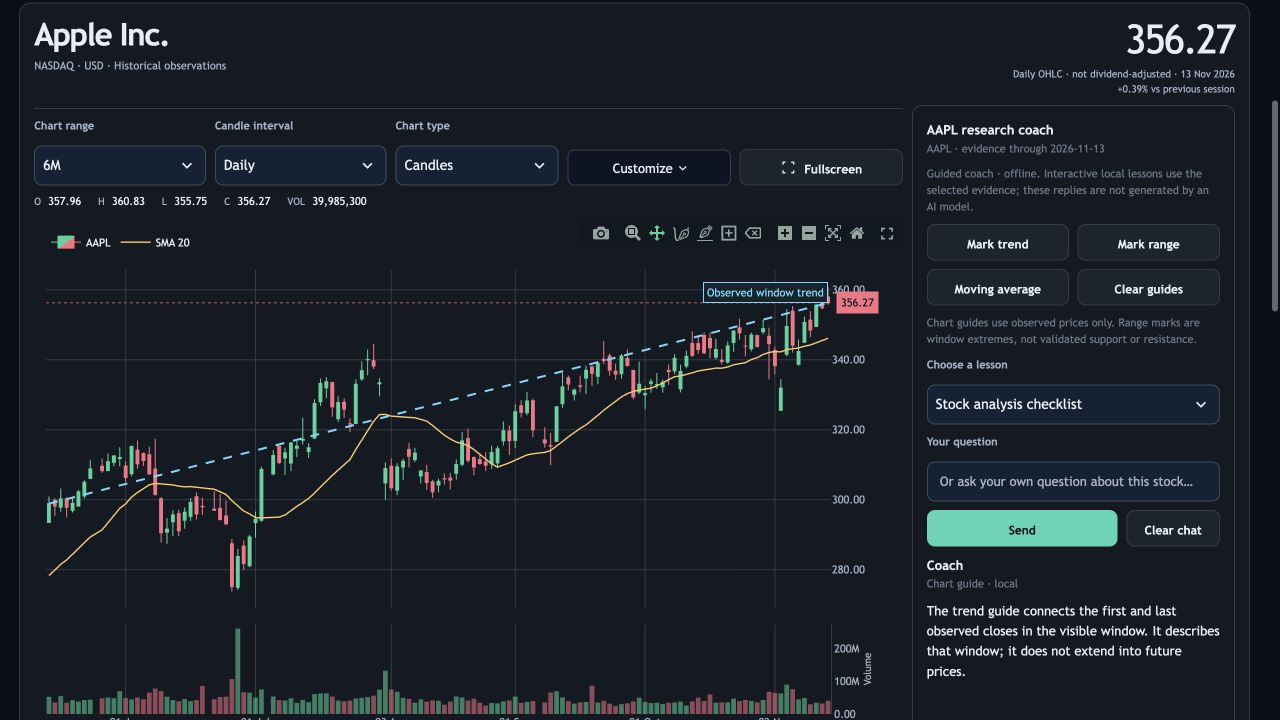
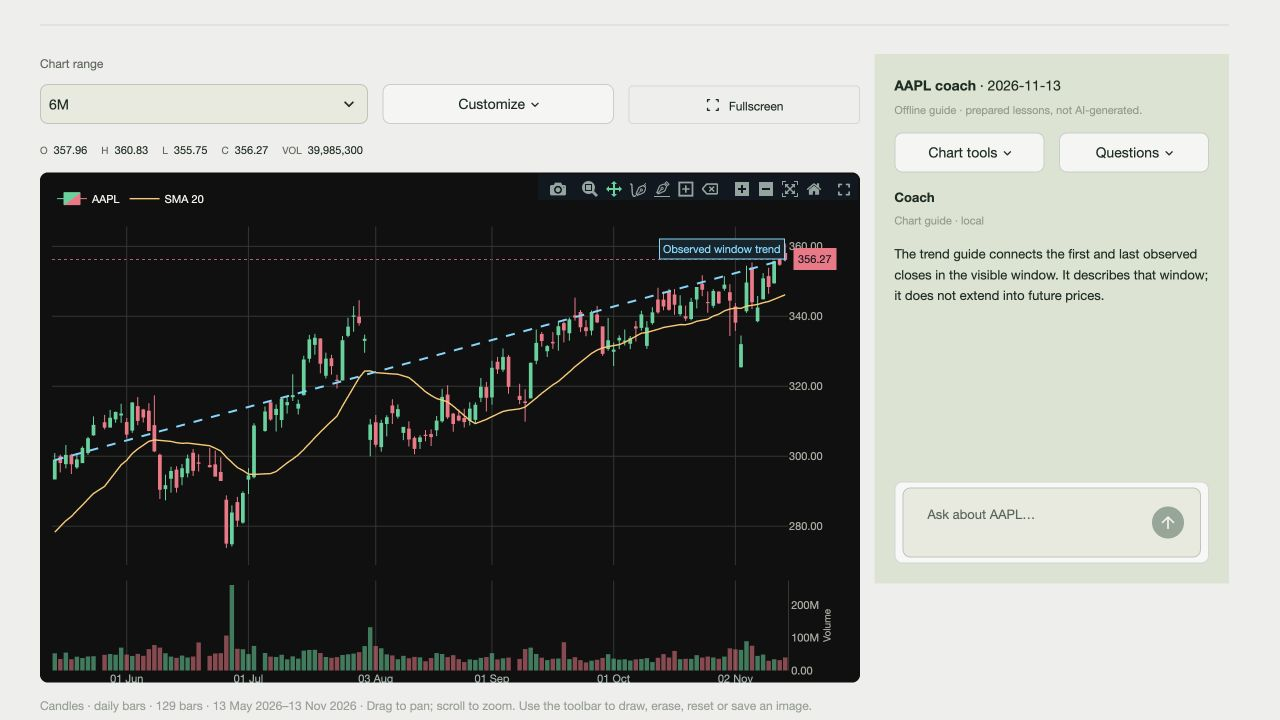
Polish README for the hackathon presentation
Lead with a clear project summary, current Research and paired builder screenshots, a workspace overview, quick start and a two-minute tour. Replace repeated feature history with concise explanations and links to detailed methods, results, data and hosting documentation.

Correct current tab names, active versus preset multipliers, offline versus optional AI coaching, score versus return graphs, seven-day news coverage and scenario assumptions. Retain verified dataset counts and research limitations.

Validation: relative links and image assets resolve, JPEG integrity checked, code/math fences balanced, and git diff --check passed. Application code unchanged.

diff --git a/README.md b/README.md
@@ -1,188 +1,137 @@
 # DerivPort
 
-![Candlestick workspace with integrated research coach](docs/screenshots/research-workspace.jpg)
+**Interactive equity research, algorithm building, and calculus sensitivity analysis.**
 
-![Calculus Lab: score sensitivity and accumulated change](docs/screenshots/calculus-lab.jpg)
+DerivPort is an educational finance project for the Veritas AI Hackathon. Explore a stock, turn an idea into a transparent ranking rule, and test it against historical evidence—all in one workspace.
 
-An educational stock-research and algorithm lab for the Veritas AI finance challenge. Compare dated company evidence with a **quant analyst — model and ranking**, edit a mathematical rule, and reveal what happened next. **Research**, **Algorithm builder**, **Future scenarios**, and **Research & Benchmarking** provide historical evidence, rule experiments, hypothetical projections, and reproducible model/portfolio comparisons. No brokerage connections, account balances, live orders, or buy/sell recommendations; portfolio holdings are hypothetical research allocations.
+[Quick start](#quick-start) · [Two-minute tour](#two-minute-tour) · [How it works](#how-it-works) · [Documentation](#documentation)
 
-[Figma design](https://www.figma.com/design/ZxLybASxv0lxyUkdnQ33A2/Hackathon-DerivPort?node-id=1-7) · [Interface direction](docs/DESIGN.md)
+![Research workspace: real candlesticks and an integrated stock coach](docs/screenshots/research-workspace.jpg)
 
-The [DerivPort logo component](https://www.figma.com/design/ZxLybASxv0lxyUkdnQ33A2/Hackathon-DerivPort?node-id=8-8) was created and exported in Figma. Its editable source and exact SVG provenance are documented in [Brand](docs/BRAND.md).
+*Research: observed prices, customizable charts, and a coach grounded in the selected historical view.*
 
-## Run locally
+![Algorithm builder: the selected stock chart beside its draft algorithm-score graph](docs/screenshots/algorithm-builder.jpg)
 
-Tested with Python **3.13**:
+*Algorithm builder: compare the stock chart with your recipe’s score curve. A ranking score is different from an investment return.*
+
+## What you can explore
+
+| Workspace | What it does |
+| --- | --- |
+| **Research** | Browse US-listed equities, inspect candlesticks, read dated company evidence, and compare model and algorithm rankings. |
+| **Algorithm builder** | Start with a guided recipe or arrange factor blocks. Preview score contributions, explore calculus, and run a historical backtest. |
+| **Future scenarios** | Explore assumption-driven paths through 2037, with adjustable growth, volatility, and correlation. |
+| **Benchmarks** | Compare six forecasting methods, alternative ranking rules, and hypothetical portfolios using chronological evaluation. |
+
+The interface uses a light pastel-gray layout with a dark stock-chart canvas. Settings and deeper research tools stay collapsed until needed.
+
+## Quick start
+
+Tested with **Python 3.13**. On macOS or Linux:
 
 ```sh
+git clone https://github.com/bvnnydevv/DerivPort.git
+cd DerivPort
 python3 -m venv .venv
 .venv/bin/python -m pip install -r requirements.txt
-.venv/bin/streamlit run app.py --server.address 127.0.0.1
+.venv/bin/streamlit run app.py
 ```
 
-Open **http://127.0.0.1:8501**. Installation requires internet. Once installed, all bundled and previously downloaded stock histories work offline. Explicit provider search, adding an uncached stock, refreshing history, and opening external source links require internet. No API key is required. Dependencies include Streamlit, pandas, NumPy, scikit-learn, Plotly, and `yfinance==1.8.0`.
+Open [localhost:8501](http://localhost:8501). On Windows, use the executables in `.venv\Scripts` instead of `.venv/bin`.
 
-## Host a demo
+**No API key is needed for the bundled demo.** After installation, bundled price history, charting, guided lessons, algorithm experiments, and simulations work offline. News, provider searches, uncached stocks, refreshes, and external links require internet access.
 
-Deploy this repository on [Streamlit Community Cloud](https://share.streamlit.io/) with repository **`bvnnydevv/DerivPort`**, branch **`main`**, entrypoint **`app.py`**, and Python **3.13** in Advanced settings. The bundled demo needs no secrets or API keys. See the [hosting guide](docs/HOSTING.md) for the complete steps and demo checks.
+To publish a shareable demo, follow the [Streamlit Community Cloud hosting guide](docs/HOSTING.md). Use repository `bvnnydevv/DerivPort`, branch `main`, and entry point `app.py`.
 
-## Explore stocks and dates
+## Two-minute tour
 
-**Full cached history** is the default data range, making the supplied 2026 observations available directly. For the reproducible presentation, choose **Frozen demo (2018–2024)**, the original AAPL/MSFT/NVDA/AMZN/GOOGL group, and **Apple on May 3, 2024**. That example follows Apple's May 2 earnings release and was curated for clear, mixed business evidence, not to demonstrate a successful forecast.
+1. **Explore a stock.** Start with AAPL in Research. Use **Customize** for moving averages, candle intervals, colors, and volume; open **Fullscreen** to inspect the chart. Type a question into the coach or use **Chart tools** to mark a trend or range.
+2. **Build an idea.** In Algorithm builder, adjust the model/recent-strength mix and risk penalty. The orange score graph updates with the draft; the stock-price data stays fixed. Inspect the contribution table, then choose **Apply blocks to algorithm**.
+3. **Test and explain it.** Run a historical backtest to compare your rule, the model, momentum, and the selected stock’s buy-and-hold return. Open **Explore the formula & Calculus Lab** to see how a small input change affects slope, curvature, and accumulated score change.
+4. **Explore a possible future.** In Future scenarios, change Low/Medium/High risk and simulate through a target date. The purple price bands and amber return distribution show what the assumptions produce—not known future prices.
 
-The explorer shows **6,094 current US equity candidates** from the official NasdaqTrader Nasdaq and other-exchange directories, source files dated **2026-11-13**. Use **Exchange** and the searchable **Stock** selector to browse the full snapshot, rather than only the bundled stocks. Exchanges include NASDAQ, NYSE, NYSE American, NYSE Arca, Cboe and TXSE where qualifying listings are present. US-listed ADRs, preferred shares and partnership equity units are included; explicit filters remove ETFs, test issues, debt and derivatives. New downloads verify the provider's equity identity. Name-based classification and provider history coverage have limits: this is a current listing snapshot, not every historical, delisted or OTC security.
+For a repeatable historical example, open **Settings**, select **Frozen demo (2018–2024)** and the original five-stock group, then choose **AAPL · May 3, 2024**. In Research tools, reveal the next 21 sessions only after inspecting the evidence. This example was curated for an understandable earnings discussion, not as proof of a successful forecast.
 
-**15 US adjusted-price histories** are supplied offline through November 13, 2026; the full listing directory also works offline. Selecting an uncached stock downloads only that stock's available history, rather than thousands of series at startup. Select **2–10 stocks** for research. A temporarily browsed stock joins the group while selected; explicit group edits remain available. Recently listed stocks can show an observed chart even when they lack enough shared history for the model. Unavailable additions do not block returning to a cached stock. Earlier international cache files and low-level APIs remain archived for reproducibility but are not exposed in the explorer. New runtime downloads are ignored by Git.
+## How it works
 
-Refresh the verified listing snapshot explicitly with `.venv/bin/python scripts/refresh_us_directory.py`. Its source URLs, filters, counts, timestamps and checksums are recorded in `data/us_listings_provenance.json`; failed publication restores the previous snapshot.
+### Price charts and company news
 
-Choose a daily historical cutoff through the latest observed date in the selected group. Weekends and missing dates normalize to the preceding shared session. Cutoffs begin after at least 252 shared observations and no earlier than April 1, 2020. Research can use the latest close even when its next 21 sessions have not happened; outcome reveal remains disabled until all 21 subsequent observations are cached. The old 2024 limit came from the default frozen cache, and the earlier replay-date cap reserved those 21 future observations.
+Research and the builder share the same selected stock, chart range, candle colors, and indicators. Charts support daily/weekly/monthly candles, SMA/EMA overlays, volume, log scale, pan, zoom, drawing tools, and exports.
 
-The supplied cache covers **part of 2026, through November 13**, not the rest of that year. Comparisons use **shared observed sessions**, without forward filling.
+**Company news** searches a rolling seven-day window on demand. Each headline includes its publisher, publication date, and source link. Ten appear initially; **More headlines** expands the list, up to fifty. The app shows the actual supplied date range because the provider may return less than a full week. A conservative title filter can miss aliases or articles that omit the company name and ticker.
 
-## Customizable stock charts
+**Price move around an event** measures observed 1-, 5-, and 21-session changes around a dated announcement or article. It uses the first observed session after the publication date and its preceding close as the baseline; publication-day moves are excluded. Precise timestamps use the New York calendar date. Missing outcomes remain pending. These changes describe an association, not proof that the news caused the move.
 
-The main stock chart defaults to **real candlesticks**, with genuine daily open, high, low, close and volume. Change **Chart range** (1M through All), **Candle interval** (daily/weekly/monthly), or **Chart type** (candles/OHLC/line). **Customize** controls SMA 20/50 and EMA 20 indicators, volume, grid lines, logarithmic price scale, and up/down colors. **Fullscreen** opens a viewport-sized chart workspace; close it to return. Pan, zoom, crosshair, draw-line/freehand/rectangle, erase, reset and image-export tools remain available. Drawings are temporary browser annotations; chart preferences persist during the session.
+### Transparent algorithms and calculus
 
-The bundled candle snapshot contains **33,450 daily bars across 15 US stocks**, from 2018-01-02 through 2026-11-13, so the standard charts work offline. **All** means all cached candles. An explicit download/refresh can request the provider's available full daily history. Chart-data export includes only the displayed observations and indicators. Weekly/monthly bars truncate observations at the historical cutoff before aggregation, and their last bar can be partial; indicator periods count bars of the selected interval.
-
-Candles use a separate vendor OHLCV cache with no dividend adjustment; research retains the original dividend-adjusted close inputs. A historical candle close can therefore differ from the research close. Close-only history displays an explicitly labeled line until real candles are downloaded; OHLC bars and volume are never invented. These are cached daily observations, with no intraday or live quote feed. See [chart data and provenance](docs/CHART_DATA.md).
-
-## Appearance, blocks and the stock coach
-
-The default is a **light pastel-gray editorial workspace** with **Helvetica Neue** throughout the interface and charts. The reference-led design uses muted sage accents, fine rules, flat sections and Helvetica-style typography with generous spacing. The existing stock chart retains its dark appearance and controls. Settings, model details and rankings stay collapsed to keep the main chart and chat clear. The page uses a fixed Editorial palette and comfortable spacing. Original illustrations are bundled locally; [image credits and licenses](assets/CREDITS.md) are retained. Website text contains no emojis.
-
-In **Algorithm builder**, begin with Guided mode: choose a starting idea, adjust the model/recent-strength mix and risk penalty, inspect a plain-English recipe and its score contributions, then explicitly Apply and test on past data. Advanced blocks retain the interlocking factor blocks; drag them to reorder them, change operators and weights, add/remove factors, or use the keyboard editor. Changes remain a draft until **Apply blocks to algorithm**. The compiled expression goes through the existing safe formula parser and drives the same scores, calculus and historical backtest as the text editor. The preview includes the selected stock’s Research candlestick chart with the same range, colors and indicators, plus a separate orange graph replaying the draft score on historical forecast inputs. The score graph updates while drafting; it is not a price or return forecast. After Run backtest, the performance chart also compares the algorithm with the selected stock’s adjusted buy-and-hold return over the displayed test dates. Export the block stack as JSON or its standalone Python algorithm. Balanced, momentum and defensive starting stacks are examples rather than optimized trading rules.
-
-The **research coach is embedded inside the selected stock panel**. Type in the inline chat composer and press Enter or its arrow-send button. The conversation appears above the composer; suggested questions and chart actions stay available. Its chart controls can mark an observed endpoint trend, identify the displayed window's low/high levels, show a moving average, or clear coach guides. Natural-language drawing requests map to these bounded actions; no model-generated code or arbitrary coordinates are executed. Guides use only observations through the selected cutoff, reset with the research context, and do not claim validated support/resistance or future price targets.
-
-Without an API key, the coach provides explicitly labeled **offline guided lessons** grounded in the selected evidence. To enable actual AI-generated explanations, configure `OPENAI_API_KEY` in the hosting service's secrets or the ignored `.streamlit/secrets.toml`; optionally set `OPENAI_MODEL` (default `gpt-5.4-mini`). Never commit a real key. Example secret names:
-
-```toml
-OPENAI_API_KEY = "your-server-side-key"
-OPENAI_MODEL = "gpt-5.4-mini"
-```
-
-Only pressing **Send** makes an AI request, sharing that question, the selected public historical snapshot and a bounded conversation. Future outcomes and private account/holding fields are excluded; the app never requests brokerage details. An AI-service failure falls back to a clearly labeled local lesson. The integration uses OpenAI's [Responses API](https://developers.openai.com/api/reference/resources/responses/methods/create) and the documented [model](https://developers.openai.com/api/docs/models/gpt-5.4-mini). Live API access requires a configured account/key; automated verification uses stubs rather than a paid request.
-
-**Future scenarios** adds Low/Medium/High volatility presets (0.75×/1×/1.5× historical volatility), plus Custom. Presets preserve the user's log-drift and correlation settings. A purple percentile fan and a separate amber terminal-return histogram distinguish hypothetical scenarios from observed stock charts. The same log drift preserves the analytical median-growth assumption, while volatility changes the distribution and can also change its arithmetic mean; higher risk is not a promise of higher returns.
-
-## Company news and event windows
-
-Use **Company news → Update news** to fetch a headline digest from the past seven days for the selected stock; add a topic such as earnings or a lawsuit to narrow the search. Headlines include publisher, publication date, source link and retrieval time. A conservative title filter requires the company name or ticker; aliases and relevant articles that omit both can be missed. Nothing loads until requested; news uses the existing yfinance provider and needs internet, with no extra API key. Actual supplied dates are shown; provider feeds may cover less than all seven days. This current feed is not a complete historical news archive and never enters historical model or coach inputs.
-
-Open **Price move around an event** to choose a dated headline or enter an announcement date. The chart and 1-, 5- and 21-session changes use observed adjusted closes through the selected research cutoff. Unknown publication timing uses the first observed session strictly after the publication date, with its preceding close as baseline; publication-day moves are excluded. Missing horizons remain pending. These are descriptive price changes, not proof that an announcement or negative coverage caused the move.
-
-## Reproducible research and benchmarking
-
-The **Research & Benchmarking** tab adds six aligned return-forecast methods: unchanged Ridge, Elastic Net, Random Forest, Gradient Boosting, momentum, and zero return. The original balanced signal remains selectable alongside standardized, risk-adjusted, uncertainty-penalized, and development-fitted constrained alternatives. Model selection, preprocessing and signal fitting use chronological completed labels; final-test hyperparameters and weights stay frozen.
-
-Prediction accuracy, cross-sectional ranking IC, and hypothetical portfolio performance are reported separately. Portfolio experiments use delayed fills, diversified capped targets, residual cash, daily drawdowns, commission and slippage, and explicit liquidation. Unknown currencies disable portfolio results. Statistical comparisons use paired date-block resampling and Holm adjustment; small samples remain explicitly inconclusive.
-
-Run the documented fixed-cache experiment offline:
-
-```sh
-.venv/bin/python scripts/run_research.py --dataset frozen --validation-start 2020-01-01 --test-start 2023-01-01 --end 2024-12-31 --output artifacts/research_runs/frozen-demo
-```
-
-The export includes input prices, sources, forecasts, scores, folds, trades, daily NAV, confidence diagnostics and a manifest with hashes, settings, software versions and the reproduction command. Additional cached universes use `--dataset cache --symbols AAPL,MSFT,JPM`; uncached symbols are rejected without a provider request.
-
-Read the [prioritized audit](docs/AUDIT.md), [mathematical methods](docs/RESEARCH_METHODS.md), [measured experiment](docs/RESEARCH_RESULTS.md), and [upgrade/file summary](docs/UPGRADE_SUMMARY.md). No alternative automatically replaces Ridge or the original balanced rule, and no positive performance improvement is assumed.
-
-## Research and algorithm experiments
-
-Both analyst panels use the same stock and cutoff. Company notes separate reported facts, editorial interpretation, and open questions, with the publication date and official source link. Date-only notes must be published strictly before the cutoff date; publication-day embargoes prevent after-close information from entering that day's view. The 20 verified notes are a limited collection; additional symbols and dates may lack suitable company evidence. No narrative or disagreement is invented, and qualitative notes receive no predictive-accuracy score.
-
-Three algorithms rank the same comparison group:
-
-- **Momentum:** trailing 21-session adjusted-price return.
-- **AI model:** regression estimate of the next 21-session return.
-- **Student algorithm:** an editable expression, initially `predicted_return - k * uncertainty`, with `k = 2`.
-
-The quant dashboard includes your named balanced rule, **DerivPort Signal**. In **Algorithm builder**, click **Use my balanced algorithm** to load:
-
-```text
-0.6 * predicted_return + 0.4 * momentum - k * (0.5 * uncertainty + 0.25 * volatility)
-```
-
-The starting `k = 1` balances a 60/40 model–momentum blend against explicit error and volatility penalties. These are transparent starting weights, not optimized parameters or evidence of profitability. Download the standalone [Python algorithm](algorithms/derivport_signal.py) and the cutoff's input CSV from the app. It uses only Python's standard library:
-
-```sh
-python3 derivport_signal.py --input features.csv --output ranked.csv --k 1
-```
-
-The file reproduces the app's scores and average tied ranks. [Algorithm documentation](algorithms/README.md) explains the inputs, coefficients, and measured frozen-cache research results.
-
-You can also edit `predicted_return`, `uncertainty`, `momentum`, `volatility`, `k`, numeric constants, arithmetic, and parentheses. A restricted AST parser rejects calls, attributes, powers, division by zero, and non-finite results. Invalid edits preserve the last valid formula, k, scores, and ranks.
-
-Formulas, substituted arithmetic, error definitions, and calculus are rendered in LaTeX. The score-versus-uncertainty chart holds other inputs fixed and marks the current score. For the default rule:
+The initial active rule is:
 
 $$
-S=\widehat r_{21}-k\varepsilon,\qquad
-\frac{\partial S}{\partial\varepsilon}=-k,\qquad
-\frac{\partial^2 S}{\partial\varepsilon^2}=0.
+S=\widehat r_{21}-k\varepsilon,\qquad k=2.
 $$
 
-At k = 2, one extra percentage point of uncertainty lowers the score by two percentage points. Crossover examples distinguish a changing score from a changing relative rank.
+Here, $\widehat r_{21}$ is the local regression’s estimated return over the next 21 trading sessions, and $\varepsilon$ is its typical past forecast error. Higher scores rank higher within the comparison group.
 
-The interactive calculus lab varies one input while keeping the others fixed. It compares the actual score change with first-order tangent and second-order Taylor approximations, plots the score and derivative, displays curvature, and checks the fundamental theorem of calculus by numerically integrating the derivative along the selected interval. Gradient and Hessian values come from exact automatic differentiation of the restricted arithmetic expression; numerical quadrature remains an approximation. Singular or undefined intervals are reported without replacing the last valid ranking.
+Guided recipes combine model outlook, recent strength, past forecast error, and price swings. Advanced blocks and the text editor use the same restricted arithmetic parser. Draft changes affect the preview; **Apply** activates the block recipe. The orange curve replays the draft on historical forecast inputs, rather than inventing daily predictions or treating scores as returns.
 
-$$
-\Delta S\approx S'(x_0)\,\Delta x+
-\tfrac12 S''(x_0)(\Delta x)^2,\qquad
-S(b)-S(a)=\int_a^b S'(x)\,dx.
-$$
+The named **DerivPort Signal** preset combines 60% model estimate and 40% momentum with error and volatility penalties. Its standalone [Python download](algorithms/derivport_signal.py) defaults to `k = 1`; guided drafts retain the current multiplier. See the [algorithm guide](algorithms/README.md) for exact inputs and usage.
 
-These derivatives explain the **editable ranking arithmetic**, not the regression model's feature influence or a stock's future return. All return-like inputs remain in percentage points; k is dimensionless. The lab identifies units and holds other inputs fixed.
+Calculus Lab renders the formula in LaTeX and explores derivatives, curvature, tangent and quadratic approximations, and the integral of the derivative. These explain the ranking rule’s arithmetic, not the regression’s feature influence.
 
-**Research** hides subsequent returns, realized ranks, and single-date ranking accuracy until **Reveal next 21 trading days**. Recent cutoffs show a pending-outcome message instead of invented results. Reveal freezes that experiment's predictions; later rule edits are labeled **edited after seeing the outcome**. Another unrevealed cutoff provides a fresh experiment. Reveal context includes the universe, cutoff, and price-data fingerprint, so changing the experiment does not expose another experiment's result.
+### Historical evidence and future scenarios
 
-Run a separate date-range backtest in **Algorithm builder**. All methods use the same nonoverlapping forecast origins and completed outcomes; labels extending past the requested end date are excluded. Results include per-period Spearman correlations, top-ranked-stock returns, forecast RMSE, aggregate comparisons, and a linked research-return curve. These exploratory retrospective results stay separate from a single historical reveal; a revised rule is not untouched validation.
+The default prediction model is standardized **Ridge regression** using past momentum and volatility. Training uses completed historical labels; the error estimate uses completed out-of-sample forecasts. The Benchmarks workspace adds Elastic Net, Random Forest, Gradient Boosting, momentum, and zero-return baselines.
 
-The expandable stress tests use **600 reproducible correlated paths per scenario** for rally, sudden reversal, and sideways/volatile assumptions. Each method freezes its initial ranking and top-stock selection, then receives the same paths. Formula edits preserve the paths. Return distributions and first-place frequencies are simulated projections, not historical evidence or model validation.
+Future scenarios use **600 correlated lognormal paths by default**, anchored to the latest observed adjusted close. Volatility comes from up to three years of past daily returns. Annual log-price drift and correlation are user assumptions; Low/Medium/High applies 0.75×/1×/1.5× historical volatility. The bands are simulated percentiles, not calibrated confidence intervals. News, the DIY ranking rule, and the 21-session regression do not generate these long-range paths.
 
-## Hypothetical scenarios through 2037
+### Optional AI coach
 
-**Future scenarios** accepts a target through **December 31, 2037**. Actual prices and company evidence for future dates do not exist yet, so this mode is explicitly labeled **SIMULATED**. It does not extend historical data or backtest accuracy into the future.
+The local regression and the conversational coach are separate. Without a key, the coach provides clearly labeled prepared lessons and local chart guides. For AI-generated explanations, add `OPENAI_API_KEY` to the hosting service’s secrets or the ignored `.streamlit/secrets.toml`; `OPENAI_MODEL` is optional.
 
-The simulation anchors to the last genuine adjusted close in the selected cache and generates reproducible correlated monthly paths. Controls set an assumed annual **log-price drift**, a volatility multiplier, and cross-stock correlation. Each stock's volatility is estimated from up to three preceding years of daily returns and annualized with √252. The default uses 600 paths; at least 200 are required. Charts show simulated 10th, median, and 90th price percentiles, not calibrated confidence intervals. Returns remain in local currency.
+An explicit question submission sends the question, a bounded conversation, and selected public historical evidence to OpenAI. Current news and future outcomes stay outside that historical context. Never commit credentials. The bundled demo remains usable without this integration.
 
-These are assumption-driven possibilities, not validated long-range forecasts. The 21-session regression is not extrapolated through 2037, and no future company statement or realized result is fabricated.
+## Data and research boundaries
 
-## Model, units, and evaluation
+| Included snapshot | Coverage |
+| --- | --- |
+| **US equity directory** | 6,094 current listing candidates after disclosed filters, from NasdaqTrader files dated **November 13, 2026**. |
+| **Offline US price history** | 15 adjusted-price histories through **November 13, 2026**. Additional listings load their available history on selection. |
+| **Offline candlesticks** | 33,450 daily OHLCV bars across 15 US stocks, from **2018-01-02 to 2026-11-13**. |
 
-A pooled expanding-window **StandardScaler + Ridge(alpha=25)** regression uses trailing 21-session return and trailing daily-return sample standard deviation × √21. Its target is the next 21-session adjusted-price return. Training includes only rows whose complete target ends by the forecast cutoff; scaling is fitted on those training rows. There is no random split.
+The directory includes qualifying common shares, ADRs, preferred shares, and partnership equity units across exchanges. It is not an archive of every historical, delisted, or OTC security; provider coverage varies.
 
-Out-of-sample origins are 21 sessions apart beginning in 2020. Uncertainty is the RMSE of each stock's latest 24 completed out-of-sample forecast errors, using only outcomes already known at the cutoff. Fewer than six stock errors triggers a disclosed last-120-error pooled fallback. This is typical past forecast error, not a confidence interval. Reported aggregate evaluation begins in 2022.
+Candles use unadjusted OHLCV. Model inputs and return comparisons use adjusted closes, so displayed price levels can differ. Prices are cached daily observations, not a live intraday feed. No missing historical prices or candles are fabricated.
 
-Return-like inputs use percentage points: `3.5` means 3.5%. The default score has those units; k is dimensionless. Custom multiplication or division can change score units. Average ranks handle ties, with alphabetical order only breaking selection/display ties. Spearman compares ranked orders: +1 means identical order and −1 means reversed order; a constant ranking is undefined. The momentum forecast baseline assumes the next return equals the preceding return.
+Historical cutoffs restrict displayed evidence; subsequent returns stay hidden until explicitly revealed. Current news is kept separate from historical model and coach inputs. Adjusted vendor snapshots can still change with later corporate actions, and chosen stock groups have selection and survivorship bias.
 
-For the **frozen original five-stock cache only**, there are **34 held-out dates / 170 forecasts** with completed outcomes through December 2024:
+Backtests are retrospective experiments. The builder’s linked returns omit execution costs and taxes; the separate Benchmarks portfolio engine models delayed fills, commission, slippage, sizing, and drawdowns. Repeated tuning can overfit. This is an educational research app with hypothetical allocations, not brokerage access or investment advice.
 
-| Measure | AI regression | Momentum baseline | Student rule, k = 2 |
-| --- | ---: | ---: | ---: |
-| Return forecast RMSE | 12.11 pp | 18.42 pp | Not a return forecast |
-| Mean per-date Spearman | +0.085 | −0.044 | −0.097 |
+## Documentation
 
-The baseline has lower RMSE on **5 of 34 dates**. These weak rank correlations demonstrate that lower prediction error does not establish useful rankings. These numbers do **not** describe expanded histories, custom universes, or new formulas. In Research, aggregate results include only outcomes completed by its selected cutoff.
+| Resource | Contents |
+| --- | --- |
+| [Hosting](docs/HOSTING.md) | Deployment and presentation checks. |
+| [Research methods](docs/RESEARCH_METHODS.md) | Chronological evaluation, models, signals, portfolios, and inference. |
+| [Measured results](docs/RESEARCH_RESULTS.md) | Retained experiments, comparisons, and limitations. |
+| [Chart data](docs/CHART_DATA.md) · [Data credits](data/CREDITS.md) | Price provenance, caching, and source terms. |
+| [Algorithm guide](algorithms/README.md) | Standalone Python algorithm and input format. |
+| [Figma logo](https://www.figma.com/design/ZxLybASxv0lxyUkdnQ33A2/Hackathon-DerivPort?node-id=8-8) · [Brand](docs/BRAND.md) | Editable logo source and SVG provenance. |
 
-Exact frozen-cache metrics and assumptions are in [docs/evaluation.json](docs/evaluation.json). The two-minute presentation follows one stock from business evidence to model rank, changes one mathematical assumption, then reveals the outcome: [docs/DEMO.md](docs/DEMO.md). **Both files contain outcome spoilers.**
-
-## Data, integrity, and limitations
-
-The original cache contains **8,805 adjusted prices** from Yahoo Finance via Akmal Yaasir Fauzaan's public mirror at a pinned commit. Extended caches download Yahoo Finance `Adj Close` through yfinance. Each extended file has provenance, currency, retrieval time, and a checksum; failed refreshes preserve the prior valid cache. No synthetic historical observations, interpolation, or unadjusted substitutes are used.
-
-See [data/CREDITS.md](data/CREDITS.md), [data/provenance.json](data/provenance.json), and the sidecars in `data/market_cache/` for research source details. The separate [candle provenance](docs/CHART_DATA.md) describes chart-only OHLCV. To reproduce the frozen base cache with internet access: `.venv/bin/python scripts/fetch_data.py`.
-
-These are retrospective adjusted snapshots, not point-in-time vendor archives. Later corporate actions can rescale earlier levels; vendor revisions and errors remain possible. Chronological modeling does not eliminate that limitation. Chosen stock groups have selection and survivorship bias; the original group is concentrated in surviving technology businesses. Source coverage is curated, global calendars differ, local-currency results exclude FX effects, and simulations depend on their assumptions. Linked research returns omit trading frictions and are not executable performance. Reveal state is session-local. The finance theme is confirmed; no detailed official scoring rubric was supplied.
-
-The repository's existing MIT license covers application code. Market data and issuer material retain their owners' terms; the credited cache is for educational demonstration, not a commercial redistribution license.
-
-## Verify
+## Verify and reproduce
 
 ```sh
 .venv/bin/python -m pip install -r requirements-dev.txt
 .venv/bin/python -m pytest -q
 ```
 
-Tests exercise the normal Streamlit entry point with outbound connections blocked: recent-date research with pending outcomes, hidden completed outcomes, formula preservation, real k-driven rank crossings, frozen reveal predictions, post-reveal edit labels, fresh experiment contexts, LaTeX rendering, and interactive calculus. Additional checks cover dated sources, completed training labels, future-price mutation invariance, tied/constant Spearman handling, measured uncertainty, identical simulations for identical rankings, global caches, dynamic universes, common-date backtests, reproducible hypothetical projections through 2037, analytic derivatives, and numerical integral agreement.
+Tests cover cutoff boundaries, formula safety, draft/active isolation, matched chart data, pending outcomes, news dates, calculus, and reproducible simulations. Core dashboard tests block outbound network calls.
+
+To reproduce the fixed-cache research experiment:
+
+```sh
+.venv/bin/python scripts/run_research.py --dataset frozen --validation-start 2020-01-01 --test-start 2023-01-01 --end 2024-12-31 --output artifacts/research_runs/frozen-demo
+```
+
+The export includes input prices, forecasts, scores, folds, trades, NAV, diagnostics, and a manifest recording hashes and settings.
+
+Application code is [MIT licensed](LICENSE). Market data and issuer material retain their source terms; see [data credits](data/CREDITS.md) and [image credits](assets/CREDITS.md).
